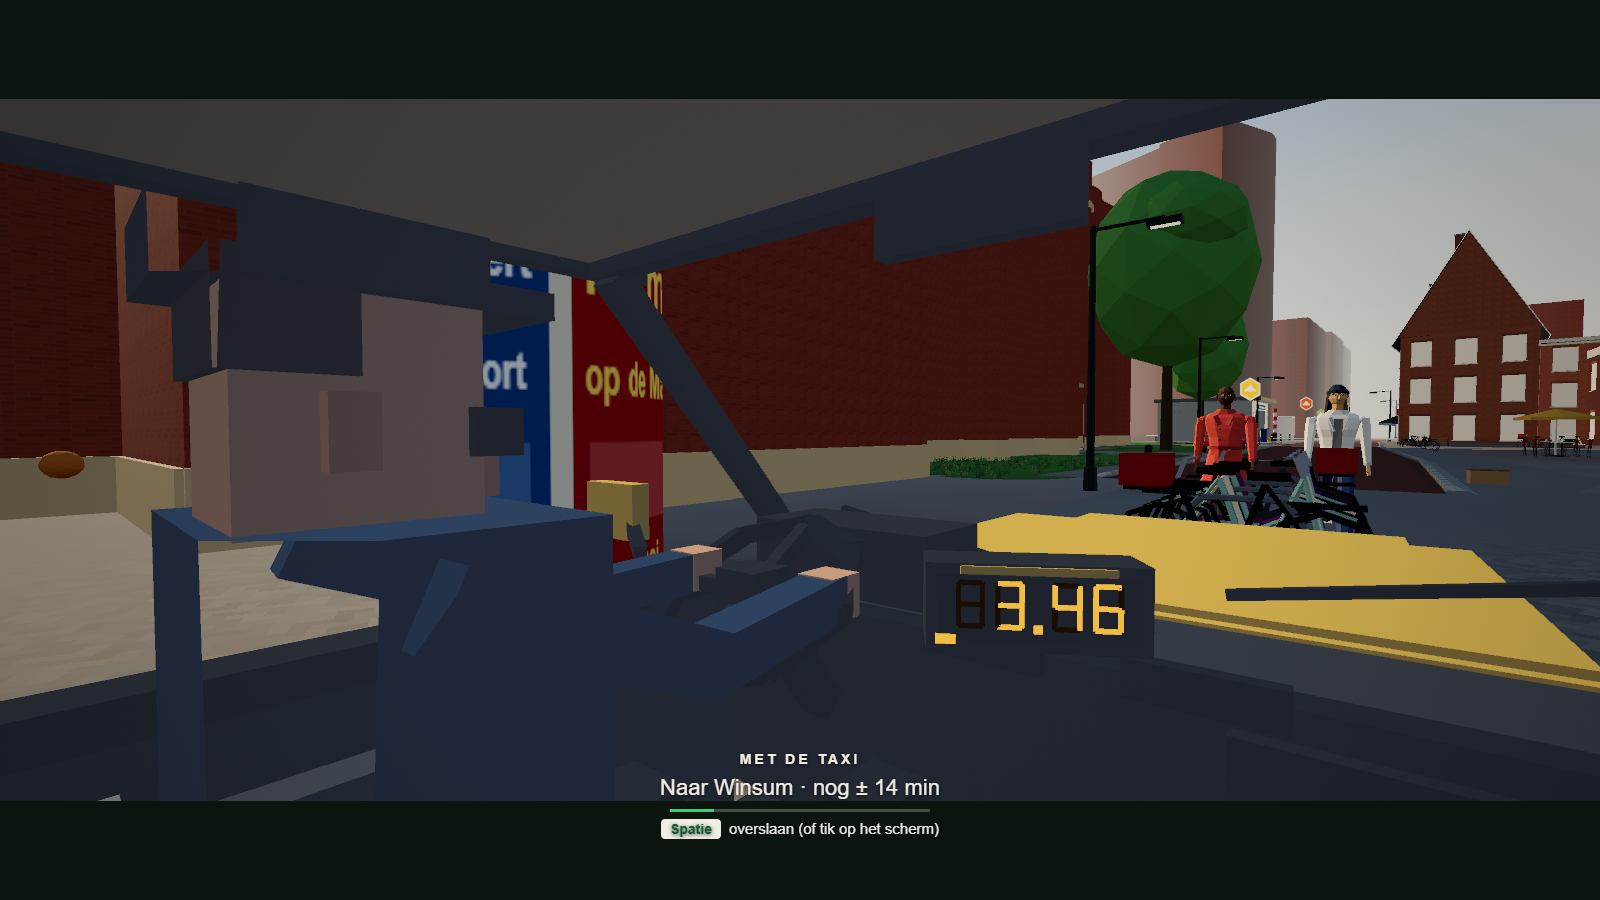
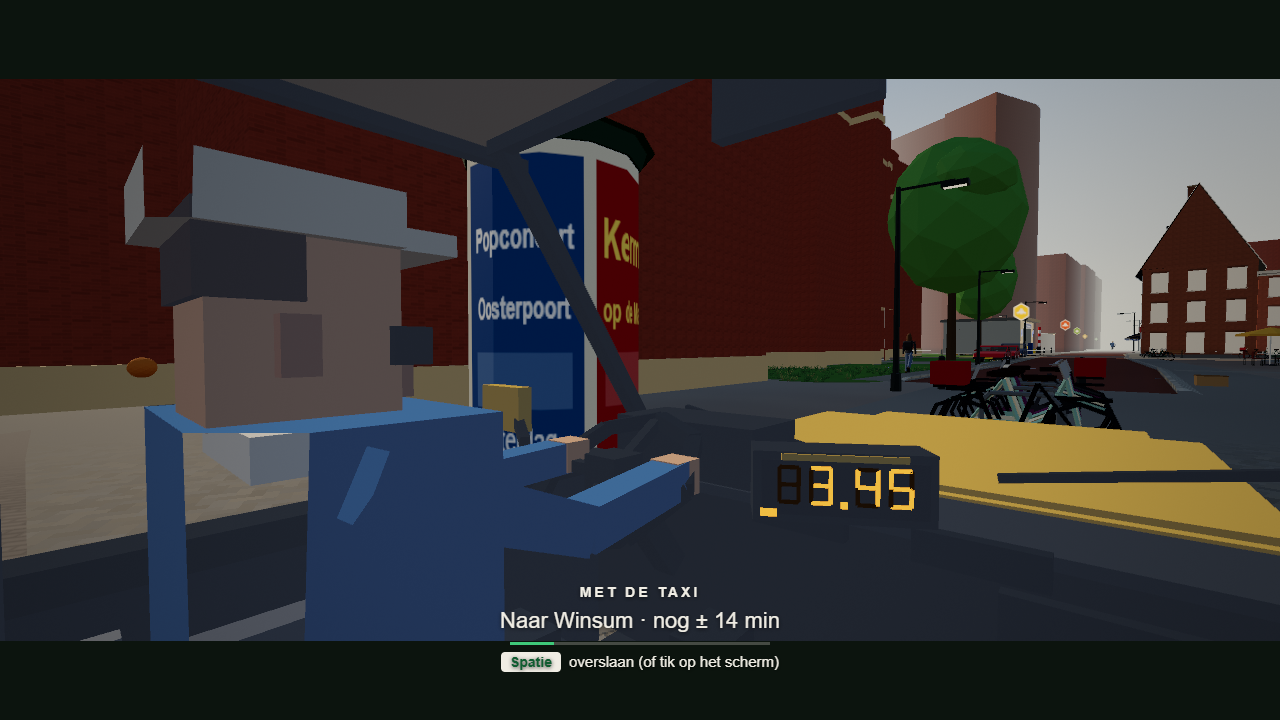
Rit: de cabine bleef weg na de tijdsprong (de taxi stond ver van de speler, meshes worden rond hem getekend): de verborgen speler rijdt mee; chauffeur lichter en herkenbaar, dak hoger en dunner; beelden op 1280x720 en 1920x1080 (Refs #882)

diff --git a/game/js/ritcabine.js b/game/js/ritcabine.js
@@ -13,9 +13,9 @@ export const TAXI_TARIEF = { start: 3.4, perKm: 2.2 };
 export const TAXI_OOG = { x: -0.4, y: 1.26, z: 0.36 };   // het oog van de passagier
 export const TAXI_VOORRUIT = { x0: 1.0, x1: 0.32 };       // onderkant (de bak) en bovenkant (de kop) van de voorruit
 
-const FLOOR = 0x2b2e33, PANEEL = 0x3b4048, DASH = 0x2d3036, DASH_TOP = 0x3a3f46, STOEL = 0x4a4f58, STOEL_RUG = 0x3d424a;
+const FLOOR = 0x2b2e33, PANEEL = 0x3b4048, DASH = 0x2d3036, DASH_TOP = 0x3a3f46, STOEL = 0x6a707a, STOEL_RUG = 0x5a606a;
 const HEMEL = 0xe8e4d8, STIJL = 0x2a2d33, TAXI_GEEL = 0xe8c13a, RUBBER = 0x1f2226, KNOP = 0x8a8f98;
-const HUID = 0xd9a98a, TRUI = 0x2f4a6b, BROEK = 0x23262e, PET = 0x2a2f38;
+const HUID = 0xf0bf9a, TRUI = 0x4f86c6, BROEK = 0x2c303a, PET = 0xf2f0e8;
 export const METER_AAN = 0xffb02e, METER_UIT = 0x2e2412;
 
 // Een stuk dat van punt p naar q loopt (arm, stijl, stang), als doos met de lengte langs x gedraaid.
@@ -119,8 +119,10 @@ function chauffeurDelen(sx, sz, stuur) {
   out.push(doos([sx, zit, sz], [0.5, 0.12, 0.5], STOEL), doos([sx - 0.3, zit + 0.3, sz], [0.1, 0.62, 0.5], STOEL_RUG), doos([sx - 0.34, zit + 0.7, sz], [0.08, 0.2, 0.28], STOEL));
   out.push(doos([sx + 0.03, zit + 0.4, sz], [0.3, 0.55, 0.42], TRUI));                 // romp
   out.push(doos([sx + 0.03, zit + 0.1, sz], [0.3, 0.14, 0.42], BROEK));                // heup
+  out.push(doos([sx + 0.02, zit + 0.64, sz], [0.18, 0.05, 0.26], 0xffffff));            // witte boord
+  out.push(staaf([sx + 0.2, zit + 0.66, sz - 0.1], [sx + 0.2, zit + 0.1, sz + 0.12], 0.03, 0x1b1d20)); // gordel
   out.push(doos([sx + 0.0, zit + 0.78, sz], [0.2, 0.22, 0.2], HUID));                  // hoofd
-  out.push(doos([sx - 0.06, zit + 0.86, sz], [0.1, 0.1, 0.22], 0x3a2a1e));               // haar achter de pet
+  out.push(doos([sx - 0.06, zit + 0.86, sz], [0.1, 0.1, 0.22], 0x5a3a22));               // haar achter de pet
   out.push(doos([sx + 0.11, zit + 0.76, sz + 0.1], [0.05, 0.05, 0.03], 0x1b1d20), doos([sx + 0.11, zit + 0.76, sz - 0.1], [0.05, 0.05, 0.03], 0x1b1d20)); // ogen
   out.push(doos([sx + 0.12, zit + 0.72, sz], [0.06, 0.07, 0.05], 0xc7967a));             // neus
   for (const e of [-1, 1]) out.push(doos([sx - 0.02, zit + 0.76, sz + e * 0.11], [0.04, 0.07, 0.03], 0xc7967a)); // oren
@@ -169,18 +171,18 @@ export function taxiCabine() {
   }
   // de stijlen: A (naar de voorruit), B (midden) en C (achter), links en rechts; een dak- en kopstijl
   for (const s of [-1, 1]) {
-    D.push(staaf([V.x0, 0.9, s * 0.8], [V.x1, 1.56, s * 0.72], 0.055, STIJL));
-    D.push(doos([-0.78, 1.24, s * 0.84], [0.08, 0.64, 0.07], STIJL));                    // B-stijl
-    D.push(staaf([-1.42, 0.93, s * 0.76], [-1.58, 1.52, s * 0.66], 0.08, STIJL));        // C-stijl
-    D.push(doos([-0.62, 1.585, s * 0.78], [2.1, 0.04, 0.05], STIJL));                    // dakrail
+    D.push(staaf([V.x0, 0.9, s * 0.8], [V.x1, 1.74, s * 0.72], 0.045, STIJL));
+    D.push(doos([-0.78, 1.33, s * 0.84], [0.06, 0.8, 0.05], STIJL));                    // B-stijl
+    D.push(staaf([-1.42, 0.93, s * 0.76], [-1.58, 1.7, s * 0.66], 0.06, STIJL));        // C-stijl
+    D.push(doos([-0.62, 1.73, s * 0.78], [2.1, 0.03, 0.04], STIJL));                    // dakrail
   }
-  D.push(doos([V.x1 - 0.0, 1.58, 0], [0.05, 0.05, 1.5], STIJL));                          // kopstijl bovenin de voorruit
-  D.push(doos([-1.58, 1.56, 0], [0.07, 0.07, 1.36], STIJL));                              // bovenkant achterruit
+  D.push(doos([V.x1 - 0.0, 1.74, 0], [0.04, 0.04, 1.5], STIJL));                          // kopstijl bovenin de voorruit
+  D.push(doos([-1.58, 1.72, 0], [0.05, 0.05, 1.36], STIJL));                              // bovenkant achterruit
   D.push(doos([-1.46, 1.02, 0], [0.4, 0.08, 1.5], PANEEL));                               // hoedenplank onder de achterruit
   // de hemel
-  D.push(doos([-0.69, 1.6, 0], [2.04, 0.03, 1.6], HEMEL), doos([-0.5, 1.58, 0.0], [0.24, 0.03, 0.14], 0xf4e6c0));
+  D.push(doos([-0.69, 1.77, 0], [2.04, 0.03, 1.6], HEMEL), doos([-0.5, 1.75, 0.0], [0.24, 0.03, 0.14], 0xf4e6c0));
   // de binnenspiegel, aan de kop van de voorruit
-  D.push(doos([V.x1 - 0.04, 1.52, 0.04], [0.03, 0.1, 0.24], STIJL), staaf([V.x1 - 0.01, 1.57, 0.04], [V.x1 - 0.04, 1.5, 0.04], 0.025, KNOP));
+  D.push(doos([V.x1 - 0.04, 1.62, 0.04], [0.03, 0.1, 0.24], STIJL), staaf([V.x1 - 0.01, 1.73, 0.04], [V.x1 - 0.04, 1.66, 0.04], 0.025, KNOP));
   // de achterbank, met twee hoofdsteunen
   D.push(doos([-1.1, 0.52, 0], [0.55, 0.12, 1.4], STOEL), doos([-1.36, 0.85, 0], [0.1, 0.62, 1.4], STOEL_RUG));
   for (const s of [-1, 1]) D.push(doos([-1.38, 1.22, s * 0.38], [0.08, 0.2, 0.3], STOEL));

diff --git a/game/js/reisrit3d.js b/game/js/reisrit3d.js
@@ -69,6 +69,10 @@ function bouwTaxi(world, optie, dest) {
       const q = baan(stand.s);
       if (spring) voorspel(q.x, q.y);
       cineDrive(v, w.map, q, stand.v, dt, spring ? zHoogte(w.map, q.x, q.y) : null);
+      // de verborgen speler rijdt mee: voertuigmeshes worden rond de speler getekend, en na de tijdsprong stond de taxi kilometers
+      // van hem af, zodat de cabine ontbrak in de laatste helft van de rit (beeldcheck #882)
+      const hp = hoofdspeler(w);
+      hp.x = v.x; hp.y = v.y; hp.gz = v.z || 0;
       if (stand.fase === 'sprong' && gezien !== 'sprong') { gezien = 'sprong'; const c = sluitStart(); voorspel(c.x, c.y, 10); }
       w.ritMeter = meter(stand.s);
       return { ...P.taxiCamera(P.taxiOog(v), t), cut: true };
